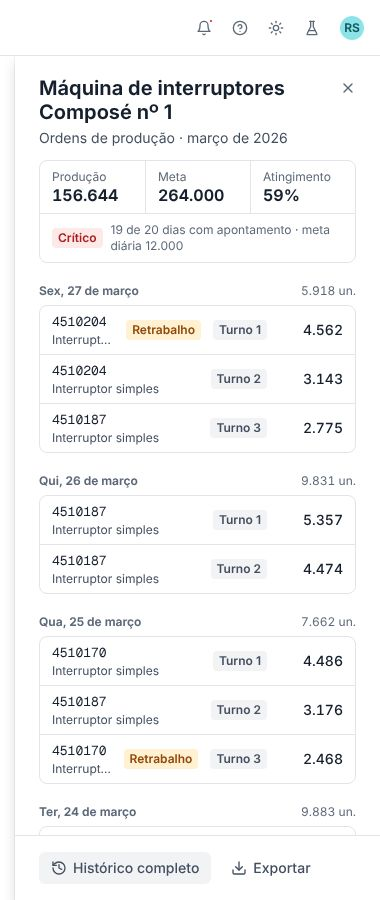
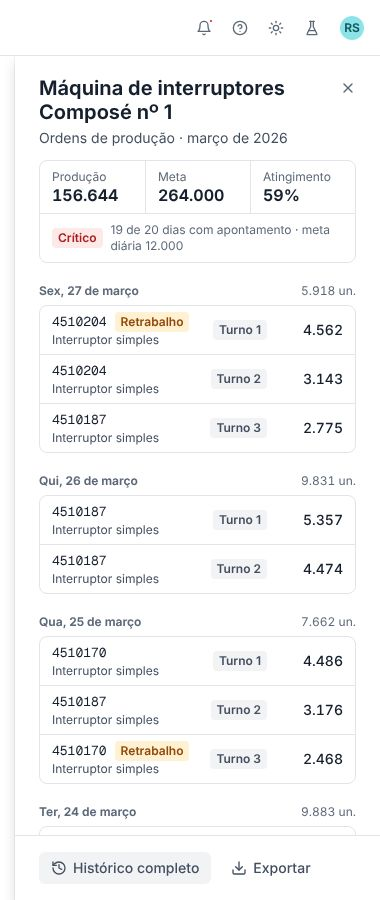
Galeria antes e depois da auditoria e verificação final
Capturas de depois (mesmos recortes das de antes) e cenários lado a lado
(painel com retrabalho, Ranking no Turno 3 e por apontamento). Verificação
final no relatório: axe 85 -> 0, rolagem lateral 1 -> 0, texto saindo da
caixa 7 -> 0.

Claude-Session: https://claude.ai/code/session_01UHc81TeezmNGrHtWtmy3jN

Changed region(s): [[0.2605, 0.3422, 0.55, 0.4044], [0.2605, 0.8089, 0.5211, 0.8711]]

diff --git a/docs/frontend/auditoria-2026-10-07.md b/docs/frontend/auditoria-2026-10-07.md
@@ -37,8 +37,8 @@ Capturas citadas abaixo: `auditoria-2026-10-07/antes/*.jpg` (e as de depois na
 (Rw2 conta como segura: digo o período agora; o filtro de período fica como
 decisão à parte. T19 apareceu durante as correções.)
 
-**Situação em 07/10/2026:** as 54 correções seguras estão feitas, em 9 commits
-temáticos neste branch; as 12 decisões de produto esperam aprovação (lista no
+**Situação em 07/10/2026:** as 54 correções seguras estão feitas, em 11 commits
+temáticos neste branch (`claude/practical-mccarthy-6t2ho8`); as 12 decisões de produto esperam aprovação (lista no
 fim). Nenhum item foi adiado ou recusado.
 
 Testes novos (falham na `main`, passam aqui): `insights.test.ts` (Gráficos e
@@ -46,6 +46,18 @@ TV), `ranking.test.ts`, `panelDays.test.ts` e `dayProgress.test.ts` — 13
 casos de Vitest — e o e2e "nenhuma tela rola de lado no celular" (na `main`,
 o Cadastro rola 181px). Depois de cada bloco: `typecheck`, `lint`, `npm test`
 (107 da camada de dados + 62 da interface) e `test:e2e` (8), todos verdes.
+
+**Verificação final** (mesmas 180 capturas, depois das correções):
+
+| Checagem | Antes | Depois |
+|---|---:|---:|
+| Violações axe-core (WCAG 2 A/AA) | 85 em 4 regras | 0 |
+| Telas com rolagem lateral da página | 1 (Cadastro, 390px) | 0 |
+| Textos saindo da caixa | 7 | 0 |
+| `NaN` / `undefined` / `Infinity` na tela | 0 | 0 |
+| Erros no console | 0 | 0 |
+
+Galeria: [antes e depois](auditoria-2026-10-07/galeria.md).
 
 O que mais pesa: **o mesmo número sai diferente em telas diferentes.** A taxa de
 retrabalho tem duas contas no app; a aba Gráficos, o painel da máquina e a
@@ -74,7 +86,7 @@ negócio). **Status:** *Corrigido*, *Aguardando decisão*, *Adiado* ou *Recusado
 | T8 | Histórico | **`aria-label` em `span` sem papel** (célula de turno): proibido pela especificação; leitores de tela ignoram. 58 ocorrências. | Médio | `HistoryPage.tsx:276` (axe `aria-prohibited-attr`) | Texto `sr-only` no lugar do `aria-label`. | Segura | Corrigido (`6baff33`) |
 | T9 | Dashboard, OPs, Relatórios, Cadastro | **Contraste da etiqueta Granel (teal) 4,02:1** no tema claro (mínimo 4,5:1). | Médio | `tokens.css:370` (axe `color-contrast`) | Texto teal um tom mais escuro (`hsl(185 70% 28%)`, 5,0:1), como já é feito no verde-limão, amarelo e laranja. | Segura | Corrigido (`e2c8a8c`) |
 | T10 | Histórico | **Dias de fim de semana e futuros com 2,77:1** (cor de desabilitado em botão que funciona). | Baixo | `MonthCalendar.tsx:122` (axe) | `text-subtlest` no lugar de `text-disabled`. | Segura | Corrigido (`6baff33`) |
-| T11 | Dashboard (painel) | **Painel sem acesso pelo teclado à rolagem** e `<dl>` com filho inválido. | Baixo | `Panel.tsx:86`, `MachinePanel.tsx:48-55` (axe `scrollable-region-focusable`, `definition-list`) | Área de rolagem focável; a linha de status sai do `<dl>`. | Segura | Corrigido (`54ba87f`) |
+| T11 | Dashboard (painel) | **Painel sem acesso pelo teclado à rolagem** e `<dl>` com filho inválido. | Baixo | `Panel.tsx:86`, `MachinePanel.tsx:48-55` (axe `scrollable-region-focusable`, `definition-list`) | Área de rolagem focável; a linha de status sai do `<dl>`. | Segura | Corrigido (`54ba87f` · `0b22c70`) |
 | T12 | Menu do usuário | **"Perfil" e "Preferências" não fazem nada.** | Alto | `App.tsx:645-646` | Tirar os dois itens (ou criar as telas). | Decisão | Aguardando decisão |
 | T13 | Barra superior | **Aviso de feedbacks com horário inventado** ("há 1 h"), também com o banco. | Médio | `App.tsx:536` | Tirar o horário falso desse aviso. | Segura | Corrigido (`7a99f1a`) |
 | T14 | Todas | **Notificação (flag) reinicia o tempo a cada renderização** da tela: com "Desfazer", o aviso pode ficar mais ou menos que os 5 s. | Baixo | `Feedback.tsx:82-85`, `App.tsx` (`onDismiss` novo a cada render) | Tempo preso ao aviso, não à renderização. | Segura | Corrigido (`7a99f1a`) |
@@ -88,7 +100,7 @@ negócio). **Status:** *Corrigido*, *Aguardando decisão*, *Adiado* ou *Recusado
 
 | # | Tela | Problema | Severidade | Evidência | Correção proposta | Tipo | Status |
 |---|---|---|---|---|---|---|---|
-| M1 | Painel da máquina | **Total do dia soma o retrabalho** e as linhas de retrabalho não têm marca. Composé nº 1 em 27/03: **10.480 un.** no painel, **5.918** na aba Detalhado. | Crítico | `MachinePanel.tsx:83` | Total do dia só com a produção boa (D11); linha de retrabalho com a etiqueta "Retrabalho". Teste. | Segura | Corrigido (`54ba87f`) |
+| M1 | Painel da máquina | **Total do dia soma o retrabalho** e as linhas de retrabalho não têm marca. Composé nº 1 em 27/03: **10.480 un.** no painel, **5.918** na aba Detalhado. | Crítico | `MachinePanel.tsx:83` | Total do dia só com a produção boa (D11); linha de retrabalho com a etiqueta "Retrabalho". Teste. | Segura | Corrigido (`54ba87f` · `0b22c70`) |
 | M2 | Aba Gráficos | **Retrabalho contado como produção.** KPI "Ritmo médio": "3.947.900 peças" com a Produção em 3.798.315; "Produção por turno" (181.414 em 27/03) não bate com "Produção diária" (176.852); peças/min geral com retrabalho e por máquina sem. | Crítico | `insights.ts:27,35,88`; `antes/dashboard-graficos-1440-light.jpg` | Produção, turnos e ritmo só com a produção boa; o retrabalho continua no gráfico de qualidade. Teste. | Segura | Corrigido (`1acb999`) |
 | M3 | Visão geral | **A tabela não cabe em 1440px** com a navegação aberta: 1.157px de conteúdo para 1.054px. "Último apontamento" aparece cortado e o menu de ações (⋯) fica fora da tela. | Alto | `machineColumns.tsx`; `antes/dashboard-1440-light.jpg` | Duas opções, juntas cabem: **(a)** tirar a coluna de seleção (ver M4); **(b)** deixar o nome da máquina quebrar em duas linhas, como já fazem Histórico e Metas. | Decisão | Aguardando decisão |
 | M4 | Visão geral | **Seleção de linhas sem uso.** Marcar máquinas só mostra "N de 12 selecionadas"; Exportar ignora a seleção. | Médio | `MachinesPage.tsx:140,495-501` | Tirar a seleção, ou fazer o Exportar levar só as marcadas. | Decisão | Aguardando decisão |
@@ -154,7 +166,7 @@ completo, com confirmação e mensagens claras.
 | R2 | Formato Excel | **Texto desatualizado:** "uma linha por OP, com separador ';' para abrir direto no Excel" é do CSV; hoje sai um .xlsx com resumo, gráficos e abas. | Médio | `ReportsPage.tsx:414` | Descrever a planilha atual. | Segura | Corrigido (`1acb999`) |
 | R3 | Resumo | **"666 OPs" conta apontamentos**, não OPs (a mesma OP aparece em vários turnos). | Médio | `ReportsPage.tsx:434,523` | "666 apontamentos", como no Histórico e nos Gráficos. | Segura | Corrigido (`1acb999`) |
 | R4 | Pré-visualização da planilha | Quantidade **sem separador de milhar**. | Baixo | `ReportsPage.tsx:506` | `formatNumber`. | Segura | Corrigido (`1acb999`) |
-| R5 | Pré-visualização (celular) | **"4.335.241" sai da caixa** do indicador. | Baixo | `ReportsPage.tsx:447` (+12px) | Número menor na pré-visualização estreita. | Segura | Corrigido (`07ea509`) |
+| R5 | Pré-visualização (celular) | **"4.335.241" sai da caixa** do indicador. | Baixo | `ReportsPage.tsx:447` (+12px) | Número menor na pré-visualização estreita. | Segura | Corrigido (`07ea509` · `0b22c70`) |
 
 ## Ranking de máquinas
 
